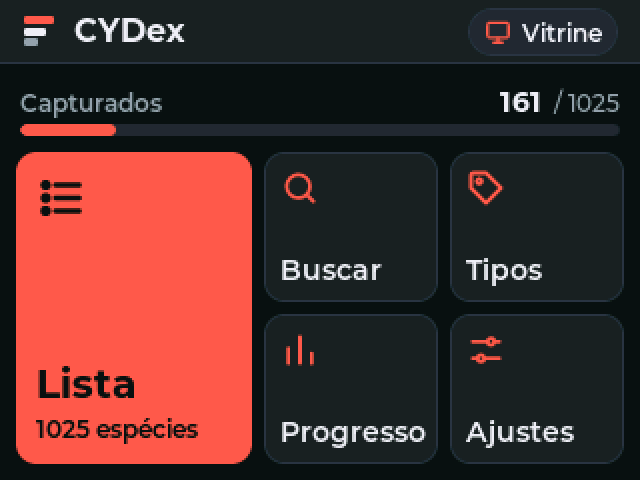
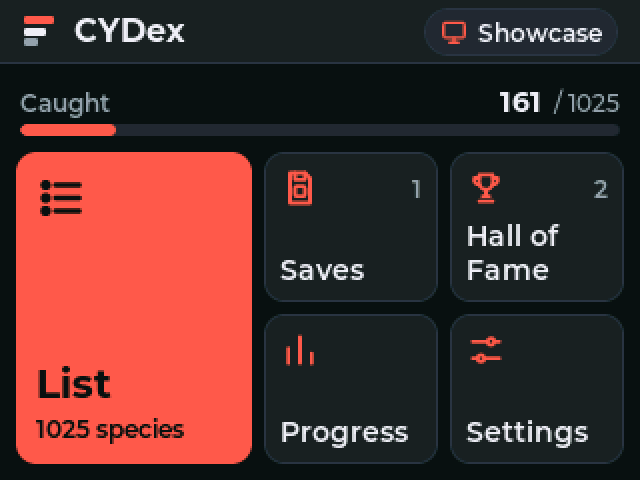
README: prints novos em inglês e seção de saves
Claude-Session: https://claude.ai/code/session_01J8R881wC6Jj71UJB4eyBj7

diff --git a/README.md b/README.md
@@ -3,7 +3,7 @@
 **A desk Dex for the ~$15 "Cheap Yellow Display".** Browse all 1025 species, track the ones you've caught in your own save files, and leave it on your desk as a living showcase that also pings you when something needs your attention.
 
 <p align="center">
-  <img src="docs/img/vitrine.png" width="560" alt="CYDex showcase mode">
+  <img src="docs/img/showcase.png" width="560" alt="CYDex showcase mode">
 </p>
 
 <p align="center">
@@ -19,8 +19,8 @@
 ## What it does
 
 - **📖 The whole national catalog.** 1025 species across nine generations, in a list or a sprite grid. Filter by caught or missing, by up to two types, or search by name or number. Jump straight to a generation.
-- **💾 Your progress, from your real saves.** Drop your Gen 3 saves (FireRed/LeafGreen, Ruby/Sapphire/Emerald) on the SD card and CYDex marks what you've seen and caught. Species you haven't met stay a mystery: `???`.
-- **🖼 Showcase mode.** A trading card style display that rotates through your collection every 30 seconds to 15 minutes. It shuffles without repeats, dims itself after sunset, and shifts a pixel or two each time so the screen doesn't burn in.
+- **💾 Your progress, from your real saves.** Drop your Gen 3 saves (FireRed/LeafGreen, Ruby/Sapphire/Emerald) on the SD card and CYDex marks what you've seen and caught. Species you haven't met stay a mystery: `???`. Open a save to see your party, your boxes and every Hall of Fame team, and the entry of any species tells you where you keep it.
+- **🖼 Showcase mode.** A trading card style display that rotates through your collection (or just your current team) every 30 seconds to 15 minutes. It shuffles without repeats, dims itself after sunset, and shifts a pixel or two each time so the screen doesn't burn in.
 - **🔔 Notifications from anything on your network.** A tiny HTTP API lets any script, CI job or smart home hub put a message on the screen. Claude Code integration comes built in.
 - **🖥 A desktop companion.** A tray app that sleeps and wakes the display along with your computer and uploads saves over Wi-Fi.
 
@@ -32,9 +32,19 @@ Real screenshots, captured from the device over USB.
 
 | | | |
 |:-:|:-:|:-:|
-| <img src="docs/img/menu.png" width="260" alt="Home"><br><sub>Home</sub> | <img src="docs/img/lista.png" width="260" alt="List"><br><sub>List</sub> | <img src="docs/img/grade.png" width="260" alt="Grid"><br><sub>Grid</sub> |
-| <img src="docs/img/ficha.png" width="260" alt="Entry"><br><sub>Entry</sub> | <img src="docs/img/ficha-status.png" width="260" alt="Base stats"><br><sub>Base stats</sub> | <img src="docs/img/ficha-evolucao.png" width="260" alt="Evolution line"><br><sub>Evolution line</sub> |
-| <img src="docs/img/busca.png" width="260" alt="Search"><br><sub>Search</sub> | <img src="docs/img/tipos.png" width="260" alt="Type filter"><br><sub>Type filter</sub> | <img src="docs/img/progresso.png" width="260" alt="Progress"><br><sub>Progress by generation</sub> |
+| <img src="docs/img/menu.png" width="260" alt="Home"><br><sub>Home</sub> | <img src="docs/img/list.png" width="260" alt="List"><br><sub>List</sub> | <img src="docs/img/grid.png" width="260" alt="Grid"><br><sub>Grid</sub> |
+| <img src="docs/img/entry.png" width="260" alt="Entry"><br><sub>Entry</sub> | <img src="docs/img/entry-stats.png" width="260" alt="Base stats"><br><sub>Base stats</sub> | <img src="docs/img/entry-evolution.png" width="260" alt="Evolution line"><br><sub>Evolution line</sub> |
+| <img src="docs/img/search.png" width="260" alt="Search"><br><sub>Search</sub> | <img src="docs/img/type-filter.png" width="260" alt="Type filter"><br><sub>Type filter</sub> | <img src="docs/img/progress.png" width="260" alt="Progress"><br><sub>Progress by generation</sub> |
+
+### Your saves
+
+Every save on the card gets its own page: trainer, play time, badges, money and that save's dex, plus the current party and all 14 boxes. Tap any creature for its real stats, nature, held item and moves. The Hall of Fame gathers every champion team from every save.
+
+| | | |
+|:-:|:-:|:-:|
+| <img src="docs/img/saves.png" width="260" alt="Saves"><br><sub>Saves</sub> | <img src="docs/img/saves-summary.png" width="260" alt="Save summary"><br><sub>Save summary</sub> | <img src="docs/img/save-party.png" width="260" alt="Party"><br><sub>Party</sub> |
+| <img src="docs/img/save-boxes.png" width="260" alt="Boxes"><br><sub>Boxes</sub> | <img src="docs/img/member.png" width="260" alt="Party member"><br><sub>Party member</sub> | <img src="docs/img/member-stats.png" width="260" alt="Member stats"><br><sub>Real stats, nature up/down</sub> |
+| <img src="docs/img/member-moves.png" width="260" alt="Moves"><br><sub>Moves</sub> | <img src="docs/img/hall-of-fame.png" width="260" alt="Hall of Fame"><br><sub>Hall of Fame</sub> | <img src="docs/img/hall-of-fame-team.png" width="260" alt="Hall of Fame team"><br><sub>Champion team</sub> |
 
 The interface is deliberately calm: no scrolling, no animations, one redraw per tap, and a dark theme that suits the CYD's viewing angles. It ships in English and Portuguese.
 
@@ -49,8 +59,8 @@ curl -4 http://cydex.local/notices \
 ```
 
 <p align="center">
-  <img src="docs/img/aviso.png" width="400" alt="Notification banner">
-  <img src="docs/img/vitrine-aviso.png" width="400" alt="Notifications on the showcase">
+  <img src="docs/img/notices.png" width="400" alt="Notification banner">
+  <img src="docs/img/showcase-notice.png" width="400" alt="Notifications on the showcase">
 </p>
 
 Notifications come with colors, icons, priorities and timeouts. Reusing an `id` updates the message in place, so one build or one chat keeps a single entry. Outside the showcase they appear as a banner; on the showcase they stack as speech bubbles next to the sprite.
@@ -75,7 +85,7 @@ Grab it from the [releases](https://github.com/hitaloose/cydex/releases).
 |---|---|
 | **Board** | ESP32-2432S028 ("Cheap Yellow Display"): a 2.8" 320×240 touchscreen, microSD slot and Wi-Fi, no PSRAM |
 | **Firmware** | C++ on PlatformIO + Arduino, UI in LVGL 8 with custom fonts and icons |
-| **Data** | Species and sprites packed into a few files on a FAT32 SD card, generated by a Python script from [PokeAPI](https://pokeapi.co/) |
+| **Data** | Species, sprites, moves and items packed into a few files on a FAT32 SD card, generated by a Python script from [PokeAPI](https://pokeapi.co/) |
 | **Desktop app** | Tauri 2 (Rust + TypeScript) |
 | **Tests** | Board-independent logic (save parser, search, paging, notifications, translations) runs as native unit tests on your computer |
 
